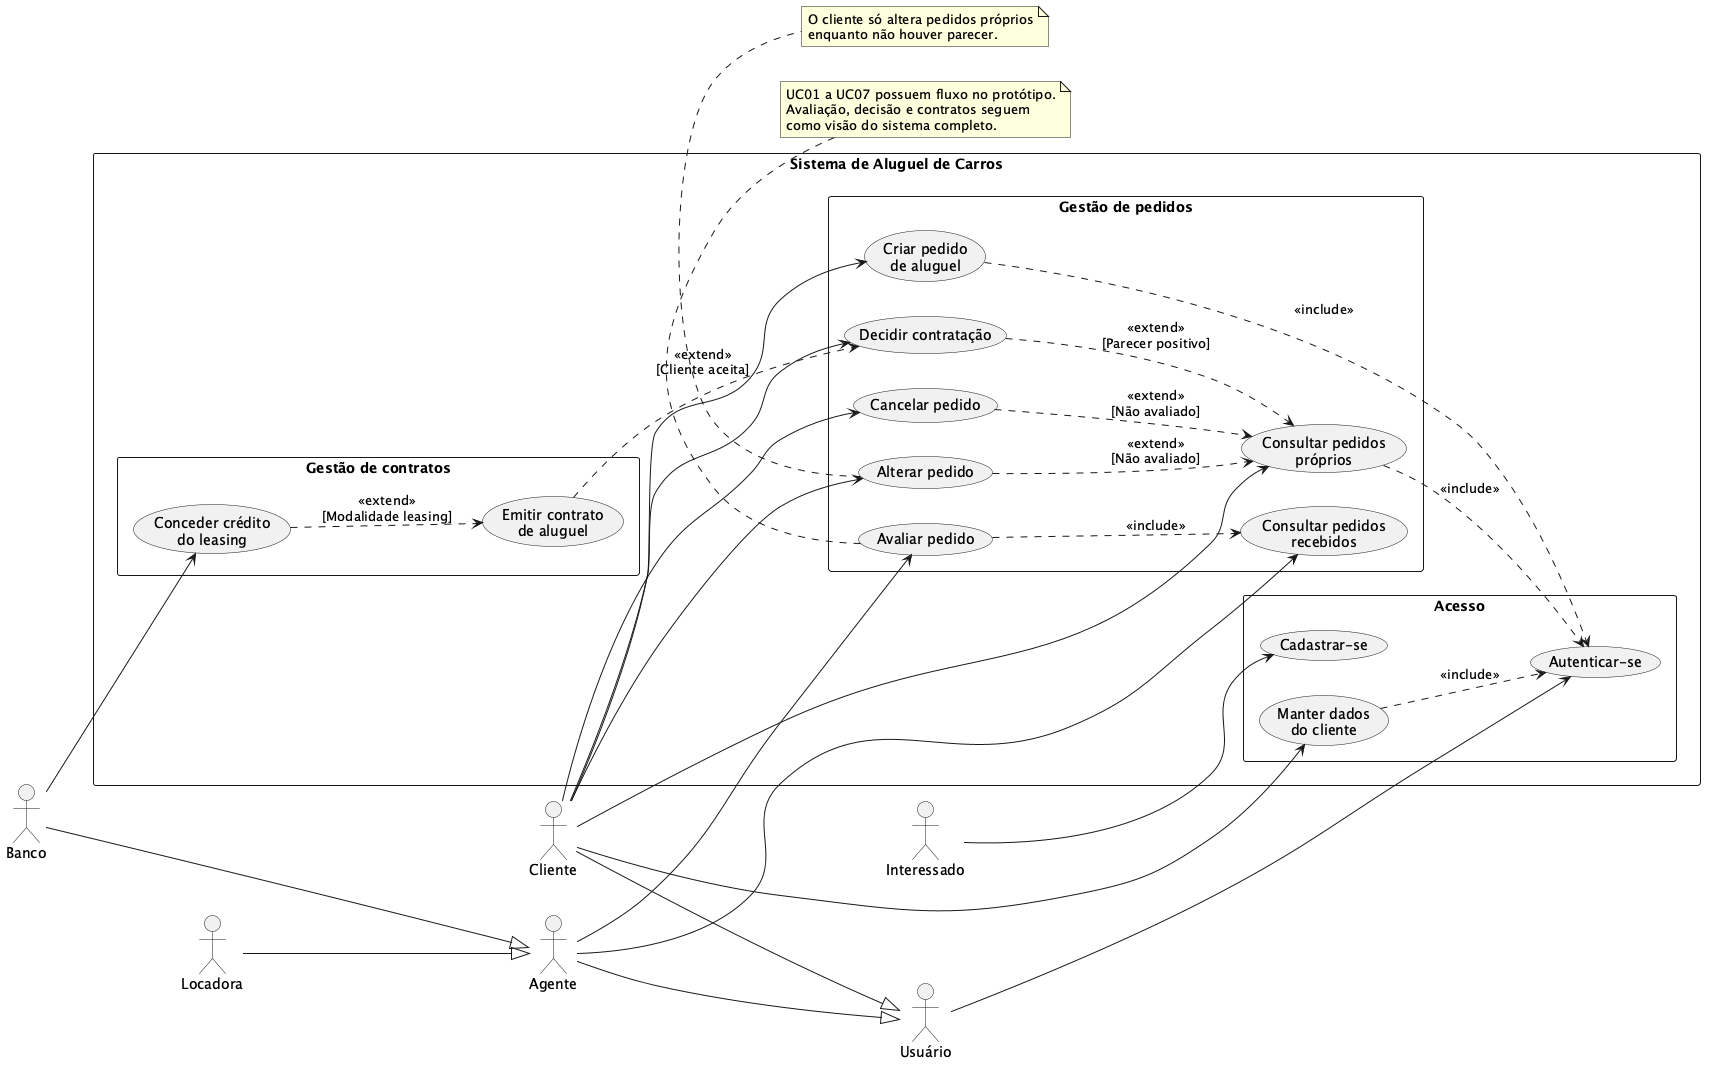
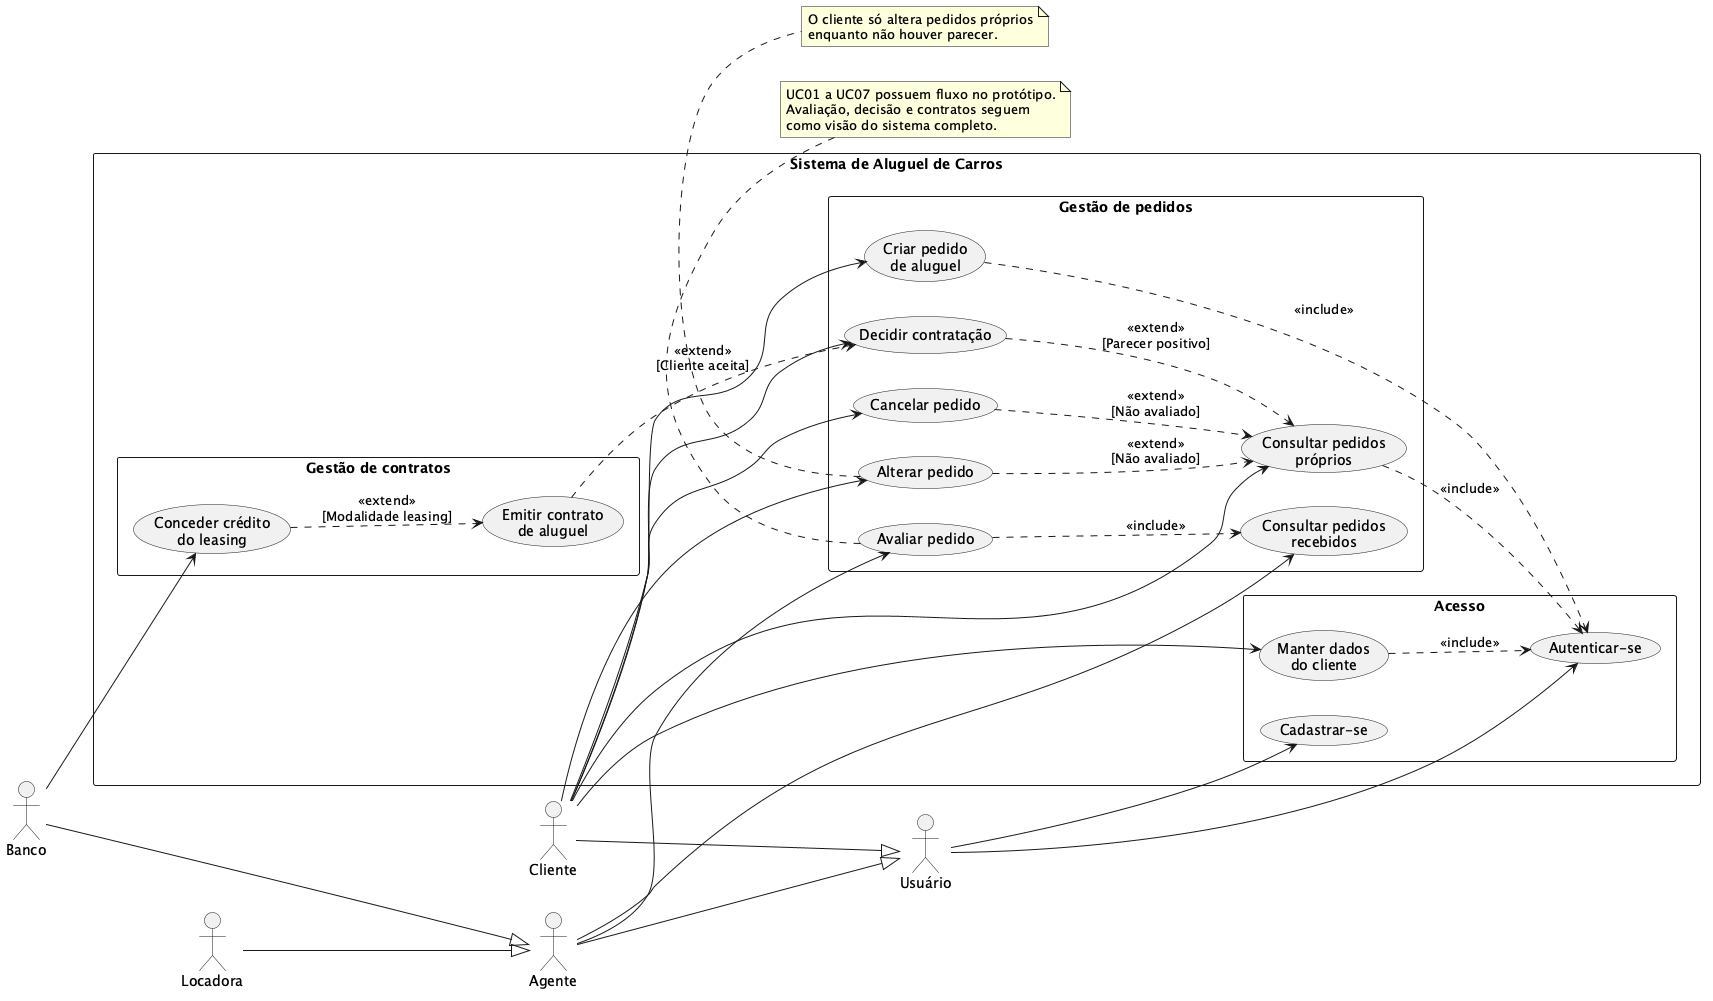
docs: vincula cadastro ao ator usuario no caso de uso

diff --git a/docs/REVISOES.md b/docs/REVISOES.md
@@ -37,3 +37,9 @@ Nenhuma alteração no CRUD de cliente foi necessária. A Sprint 2 implementa `C
 O plano anterior previa agentes, pareceres e contratos já na Sprint III. A implementação foi delimitada ao protótipo explicitamente cobrado nesta rubrica: cliente cadastrado cria e acompanha pedidos. Essas classes continuam nos diagramas com a marca `previsto`, evitando confundir modelagem final com código executável. A decisão preserva a hierarquia acordada com o professor; `Agente`, `Locadora` e `Banco` ainda não têm persistência nem telas. Não recebemos correções orais adicionais para os diagramas.
 
 Os testes passaram a verificar login, dados próprios, criação/status, edição/cancelamento e isolamento entre clientes. O H2 segue em memória, logo dados e pedidos se perdem ao encerrar a aplicação.
+
+## 28/09/2026 — Ator inicial do cadastro
+
+**Origem:** orientação recebida em aula, registrada pelo aluno. **Impacto:** médio na modelagem de casos de uso; sem mudança de comportamento no protótipo.
+
+O ator `Interessado` foi retirado do diagrama atual. O caso de uso `Cadastrar-se` agora se liga diretamente a `Usuário`, que começa seu percurso pelo cadastro. A história HU01 foi ajustada para usar a mesma nomenclatura. As versões das Sprints I e II permanecem arquivadas em `docs/diagramas/versoes/` para mostrar a evolução do modelo. O código de cadastro e login já seguia esse percurso, portanto não precisou de alteração.

diff --git a/docs/contribuicoes/lucas-nogueira/sprint3.md b/docs/contribuicoes/lucas-nogueira/sprint3.md
@@ -11,3 +11,5 @@ Mantive a divisão MVC: controllers recebem as requisições e escolhem páginas
 Testei o percurso de cadastro, login, criação, consulta, edição e cancelamento com MockMvc e H2, incluindo dados inválidos, falta de sessão, falta de CSRF e tentativa de acessar pedido de outro cliente. Fiz uma mutação temporária local retirando a restrição de dono do pedido: o teste de acesso cruzado falhou como esperado; em seguida restaurei a checagem. O protótipo ainda não registra pareceres nem cria contratos. O banco em memória foi mantido para uma demonstração simples e reproduzível.
 
 Usei o Codex, da OpenAI, como apoio na implementação, atualização dos diagramas, documentação, escrita dos testes e execução das verificações. Revisei os resultados e organizei a evolução em commits com assuntos separados. As decisões de escopo e a apresentação do trabalho são minhas.
+
+Em aula, em 28/09, defini que o usuário já inicia o percurso no cadastro. Com apoio do Codex, retirei o ator `Interessado` do diagrama de casos de uso, liguei `Cadastrar-se` a `Usuário`, atualizei a história correspondente e exportei novamente as imagens. Mantive as versões anteriores para registrar a mudança.

diff --git a/docs/SPRINT3.md b/docs/SPRINT3.md
@@ -30,7 +30,7 @@ O Spring Security controla a sessão, protege as rotas, exige token CSRF nos for
 
 ## Revisão dos modelos
 
-- Casos de uso: a hierarquia `Usuario → Cliente/Agente → Locadora/Banco` já incorpora o feedback informado pelo professor. Nesta entrega, UC01–UC07 estão acessíveis pelo fluxo do cliente; UC08–UC12 representam etapas futuras.
+- Casos de uso: a hierarquia `Usuario → Cliente/Agente → Locadora/Banco` incorpora o feedback informado pelo professor. Na revisão de 28/09, o cadastro passou a se ligar diretamente a `Usuário`, sem ator `Interessado`. Nesta entrega, UC01–UC07 estão acessíveis pelo fluxo do cliente; UC08–UC12 representam etapas futuras.
 - Classes: `Usuario`, `Cliente`, `Empregador`, `Automovel`, `PedidoAluguel`, `Modalidade` e `StatusPedido` têm correspondentes no código. Agentes, parecer e contratos foram marcados como previstos. A propriedade do automóvel também é uma regra futura.
 - Pacotes: acrescentados controllers, services, repositories, formulários e configuração reais da Sprint III.
 - Componentes: substituído o componente planejado de pedidos pelo fluxo executável com segurança, MVC, Thymeleaf, JPA e H2.

diff --git a/docs/historias-de-usuario.md b/docs/historias-de-usuario.md
@@ -6,7 +6,7 @@ As histórias abaixo correspondem aos casos de uso do diagrama da Sprint 1. Como
 
 ### HU01 — Cadastrar-se (UC01)
 
-Como interessado, quero cadastrar meus dados e credenciais, para utilizar o sistema de aluguel.
+Como usuário ainda não cadastrado, quero informar meus dados e criar minhas credenciais, para utilizar o sistema de aluguel.
 
 Critérios de aceitação:
 
@@ -116,4 +116,3 @@ Critérios de aceitação:
 
 - Apenas banco agente concede crédito.
 - O crédito referencia exatamente um contrato de leasing e registra valor, prazo e taxa.
-
